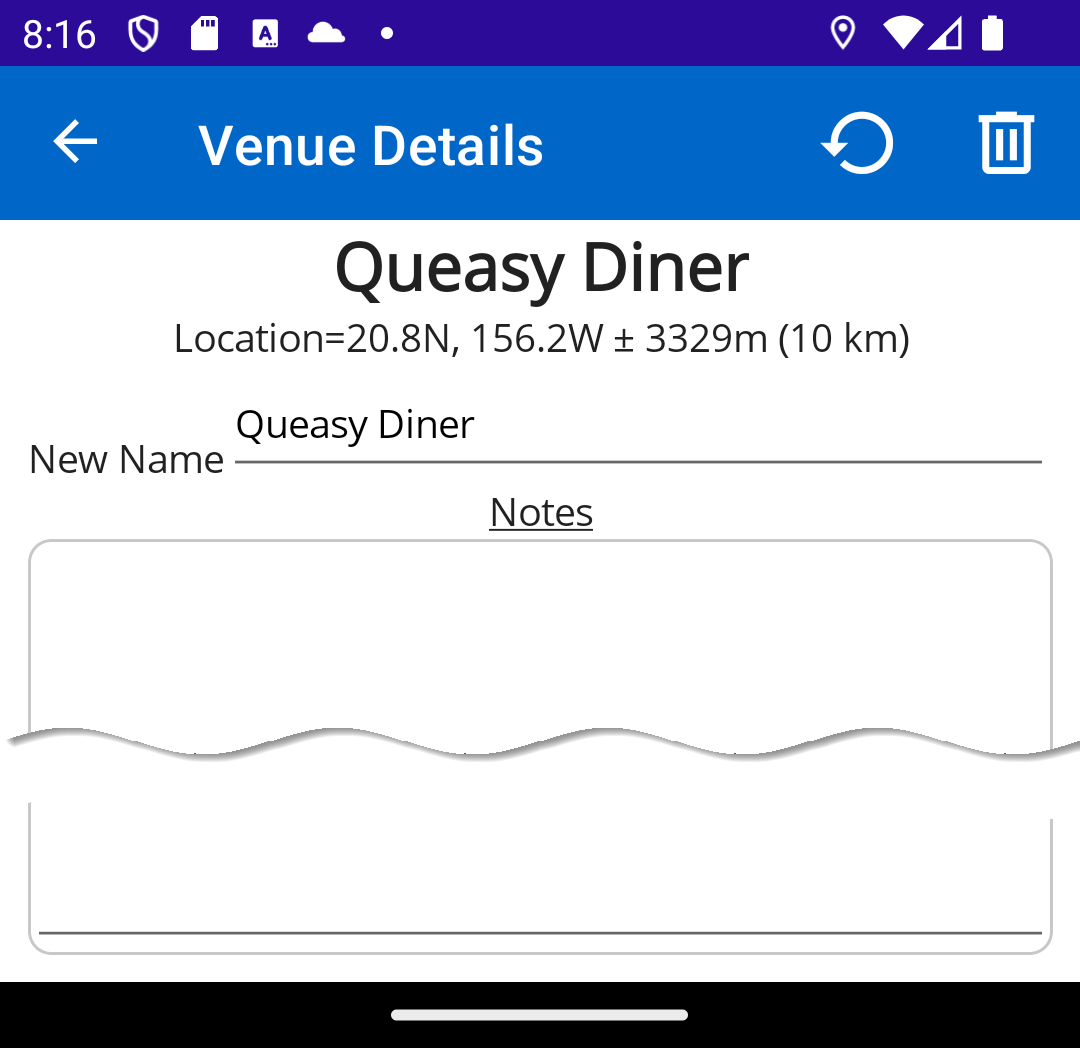
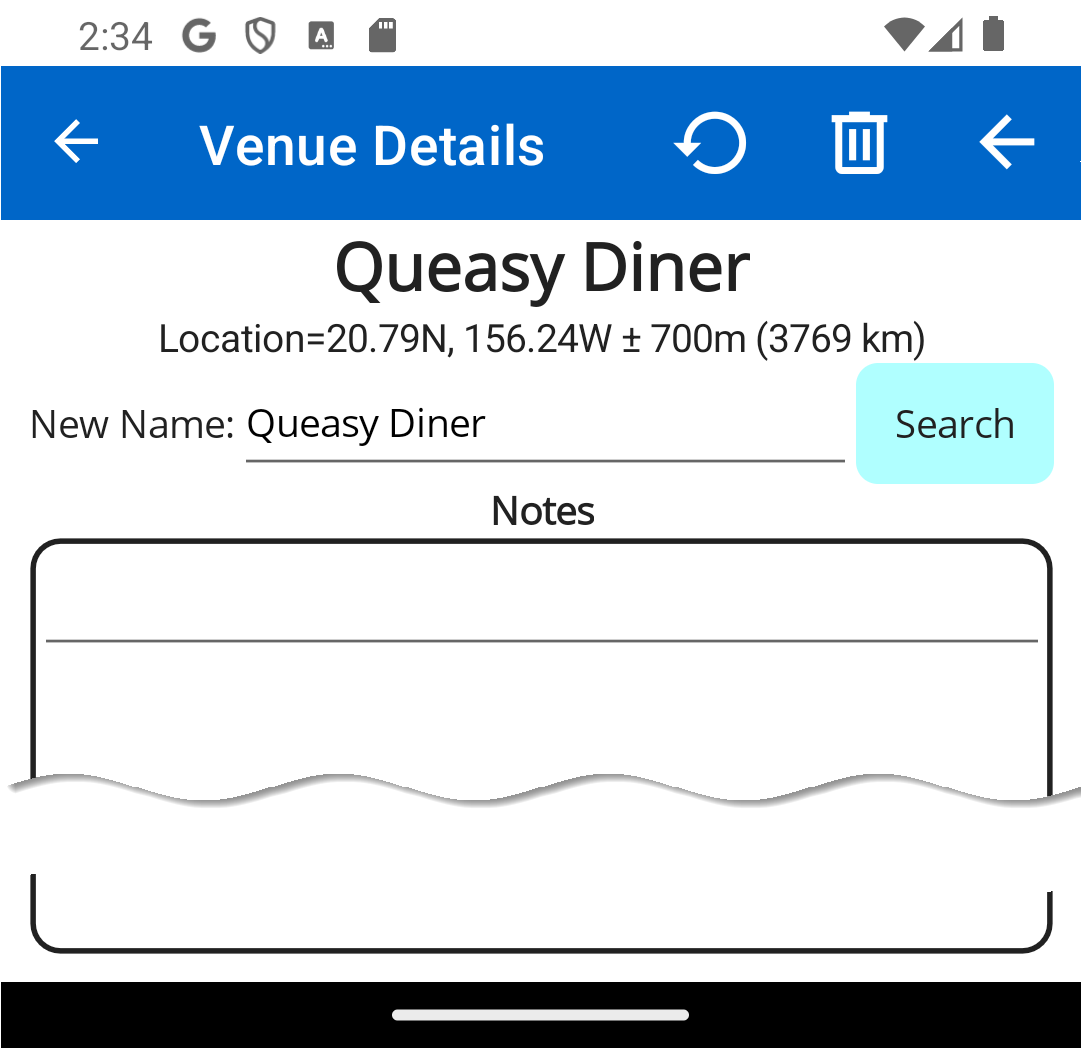
Update Venue Edit Help
Added glossary entries for "Search" and "Notes" to venue edit page documentation (HTML and Markdown). Updated venueeditpage.svg to highlight new Search, Notes, and Back buttons, and adjusted Undo highlight. Refreshed venueeditpage.png to match UI changes.

diff --git a/web/divisibill/venueeditpageglossary.html b/web/divisibill/venueeditpageglossary.html
@@ -21,6 +21,10 @@
 <p>This shows the current location of the venue, tap it to change the location, double-tap to clear it.</p>
 <h2 id="new-name">New Name</h2>
 <p>Enter a name here to rename the venue, the name at the top of the page will stay the same but your change will be applied when you leave the page.</p>
+<h2 id="search">Search</h2>
+<p>Tap this button to search for the names of nearby venues, this can save time, especially when entering a new name.</p>
+<h2 id="notes">Notes</h2>
+<p>This is a free-form text field where you can enter any notes about the venue, these are not used by the system but may be useful for your reference.</p>
 
 <script src="script.js"></script>
 </body>

diff --git a/web/divisibill/venueeditpageglossary.md b/web/divisibill/venueeditpageglossary.md
@@ -21,3 +21,11 @@ This shows the current location of the venue, tap it to change the location, dou
 ## New Name
 
 Enter a name here to rename the venue, the name at the top of the page will stay the same but your change will be applied when you leave the page.
+
+## Search
+
+Tap this button to search for the names of nearby venues, this can save time, especially when entering a new name.
+
+## Notes
+
+This is a free-form text field where you can enter any notes about the venue, these are not used by the system but may be useful for your reference.
